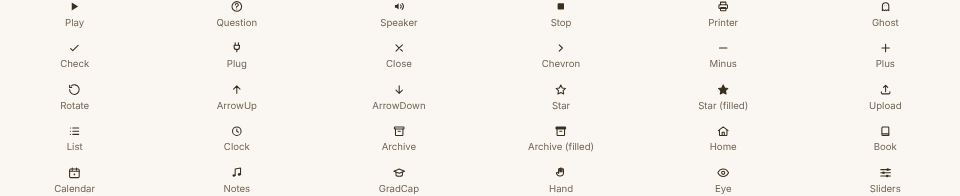
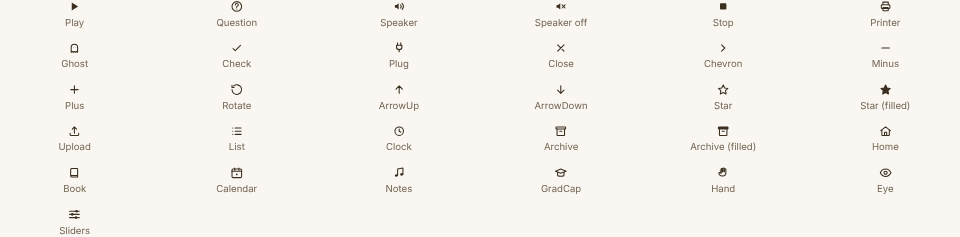
feat(sound): a piano that makes its own sound need not be doubled
Playing a digital or acoustic piano over MIDI, every note sounded twice: once
from the instrument and once from Plinky a few milliseconds behind. It is also
why a stuck note was audible at all — the voice that hung was Plinky's copy, not
the string.

"My piano makes its own sound" quiets the notes the player plays, and only
those. Listen, the metronome, the duet's other hand and every demonstration go
through strike rather than press, so they are untouched by construction. The
on-screen and computer keyboards keep their voice too — they have none of their
own, and silencing them would leave the player hearing nothing.

The switch sits in Settings and above the keys in full screen, where it stays
reachable with the keys folded away: folding them away is what somebody with a
real piano in front of them does, which is exactly who it is for. Off by
default, because most keyboards a beginner plugs in are silent controllers.

The funnel now maps a held pitch to what is holding it rather than recording
only that it is held, so a chord rolled across two inputs is judged per note.
isInstrumentInput is a second function beside isPreciseInput rather than a
second use of it: one asks how tightly to time a run, the other whether to make
a sound, and a silent MIDI controller would move one without the other.

Stored per device, and named as such in BACKEND.md's do-not-sync list — syncing
it would push silence onto a device with no instrument attached.

diff --git a/app/hooks/useSynth.test.tsx b/app/hooks/useSynth.test.tsx
@@ -5,6 +5,7 @@
 import { renderHook } from "@testing-library/react";
 import type { ReactNode } from "react";
 import { describe, expect, it } from "vitest";
+import { KEYBOARD_DEVICE, ON_SCREEN_DEVICE } from "../../core/midi";
 import type { Prefs } from "../../core/prefs";
 import { ROOM_WET } from "../../core/room";
 import { fakeAudioEngine } from "../adapters/fakeAudioEngine";
@@ -147,5 +148,64 @@ describe("decoration when audio is asleep", () => {
         const { audio, playNote } = harness();
         playNote(60, { decorative: true });
         expect(audio.strikes).toHaveLength(1);
+    });
+});
+
+describe("when the player's own instrument makes the sound", () => {
+    // Reported from a real piano over USB MIDI: every note was being played twice, once by
+    // the piano and once by Plinky a few milliseconds behind. It is also why a stuck note
+    // was audible at all — the voice that hung was Plinky's copy, not the piano's string.
+    const MIDI = "Yamaha P-125";
+
+    it("leaves a note from the instrument to the instrument", () => {
+        const { audio, synth } = harness({ instrumentSounds: true });
+
+        synth.pressNote(60, { velocity: 100, device: MIDI });
+
+        expect(audio.voices).toEqual([]);
+    });
+
+    it("still answers the on-screen and computer keyboards, which have no voice", () => {
+        // The setting is about the instrument in the room. A drawn key and a typed key
+        // make no sound of their own, so silencing them would leave the player with
+        // nothing at all.
+        const { audio, synth } = harness({ instrumentSounds: true });
+
+        synth.pressNote(60, { velocity: 100, device: ON_SCREEN_DEVICE });
+        synth.pressNote(62, { velocity: 100, device: KEYBOARD_DEVICE });
+        synth.pressNote(64, { velocity: 100 });
+
+        expect(audio.voices.map((one) => one.note)).toEqual([60, 62, 64]);
+    });
+
+    it("still plays everything Plinky plays by itself", () => {
+        // Listen, the metronome, the duet's other hand and every demonstration go through
+        // strike rather than press, and none of them is the player's own instrument.
+        const { audio, synth } = harness({ instrumentSounds: true });
+
+        synth.playNote(60);
+
+        expect(audio.strikes).toHaveLength(1);
+    });
+
+    it("answers the instrument when the setting is off", () => {
+        const { audio, synth } = harness({ instrumentSounds: false });
+
+        synth.pressNote(60, { velocity: 100, device: MIDI });
+
+        expect(audio.voices).toHaveLength(1);
+    });
+
+    it("still ends a voice and still tracks the pedal", () => {
+        // Release and pedal must reach the engine regardless: a session that opened no
+        // voice has nothing to end, but the pedal state has to stay true either way.
+        const { audio, synth } = harness({ instrumentSounds: true });
+
+        synth.pressNote(60, { velocity: 100, device: MIDI });
+        synth.releaseNote(60);
+        synth.setPedal("sustain", true);
+
+        expect(audio.voices).toEqual([{ kind: "release", note: 60, holdScale: 1 }]);
+        expect(audio.pedals).toContainEqual({ pedal: "sustain", down: true });
     });
 });

diff --git a/app/components/features/keyboardQuickControls.tsx b/app/components/features/keyboardQuickControls.tsx
@@ -9,11 +9,12 @@ import {
     type NoteLabels,
 } from "../../../core/prefs";
 import { m } from "../../paraglide/messages.js";
-import { KeysIcon } from "../ui/icons";
+import { KeysIcon, SpeakerOffIcon, SpeakerIcon } from "../ui/icons";
 import { ToggleIconButton } from "../ui/toggleIconButton";
 
 // The keyboard's own quick controls, sitting right above the keys in full
-// screen: fold the keys away, cycle the note names, cycle the next-note hint.
+// screen: fold the keys away, cycle the note names, cycle the next-note hint,
+// and hand the sound back to a piano that makes its own.
 // Each is a shortcut onto the same preference the tools drawer and Settings
 // edit with full captions — one source of truth, two doors — so a change here
 // is a change everywhere.
@@ -40,6 +41,8 @@ export function KeyboardQuickControls({
     onNoteLabels,
     noteHints,
     onNoteHints,
+    instrumentSounds,
+    onInstrumentSounds,
     floating = false,
 }: {
     // Whether the keys are folded away; the cluster stays visible as the way back.
@@ -52,6 +55,10 @@ export function KeyboardQuickControls({
     // omits the pair and the cycle button stays off the bar.
     noteHints?: NoteHints;
     onNoteHints?: (value: NoteHints) => void;
+    // Your instrument is sounding your notes already, so Plinky stays out of the way.
+    // Optional, like the hint pair: a surface with no instrument in play omits it.
+    instrumentSounds?: boolean;
+    onInstrumentSounds?: (value: boolean) => void;
     // Pin the cluster to its nearest positioned ancestor's bottom-right corner —
     // the score box — instead of taking a row of its own. Out of the flow, hiding
     // the keys frees their whole strip for the score.
@@ -96,6 +103,18 @@ export function KeyboardQuickControls({
                         </button>
                     )}
                 </>
+            )}
+            {/* Outside the fold, unlike the two cycles: folding the keys away is what a
+                player with a real piano in front of them does, which is exactly who this
+                switch is for. */}
+            {instrumentSounds !== undefined && onInstrumentSounds !== undefined && (
+                <ToggleIconButton
+                    pressed={instrumentSounds}
+                    label={m.settings_instrument_sounds()}
+                    onClick={() => onInstrumentSounds(!instrumentSounds)}
+                >
+                    {instrumentSounds ? <SpeakerOffIcon /> : <SpeakerIcon />}
+                </ToggleIconButton>
             )}
             <ToggleIconButton
                 pressed={hidden}

diff --git a/app/hooks/useSynth.ts b/app/hooks/useSynth.ts
@@ -3,6 +3,7 @@
 
 import { useCallback, useMemo } from "react";
 import { noteGain } from "../../core/loudness";
+import { isInstrumentInput } from "../../core/midi";
 import { wetFor } from "../../core/room";
 import type { PedalKind } from "../../core/pedals";
 import { useAudioEngine, usePrefsStore } from "../contexts/services";
@@ -33,7 +34,9 @@ export type UseSynthResult = {
     // A live voice for a held key: it rings until releaseNote (or the pedal lifts), so the
     // sound follows the player's own key hold. A quick release sounds staccato, a long hold
     // sustains — the articulation the player actually gave.
-    pressNote: (note: number, options?: { velocity?: number }) => void;
+    // `device` names what pressed the key, so a note an instrument is already sounding
+    // is not sounded twice. Omitted where the caller is not an instrument path.
+    pressNote: (note: number, options?: { velocity?: number; device?: string }) => void;
     // holdScale (default 1) lets an imprecise input's short tap ring on; see the engine's
     // release. A real MIDI key leaves it at 1.
     releaseNote: (note: number, holdScale?: number) => void;
@@ -98,7 +101,18 @@ export function useSynth(): UseSynthResult {
     );
 
     const pressNote = useCallback(
-        (note: number, options: { velocity?: number } = {}) => {
+        (note: number, options: { velocity?: number; device?: string } = {}) => {
+            // The player's own instrument is making this sound already, so Plinky does not
+            // make it again. Only for a note from a real instrument: a drawn key and a
+            // computer key have no voice of their own and would go silent. A caller that
+            // names no device is not an instrument path and always sounds.
+            if (
+                prefsStore.load().instrumentSounds &&
+                options.device !== undefined &&
+                isInstrumentInput(options.device)
+            ) {
+                return;
+            }
             const gain = gainFor(options.velocity ?? 90);
             if (gain === null) {
                 return;
@@ -106,7 +120,7 @@ export function useSynth(): UseSynthResult {
             audio.resume();
             audio.press(note, gain, options.velocity ?? 90);
         },
-        [gainFor, audio],
+        [gainFor, audio, prefsStore],
     );
 
     // Release and pedal always reach the engine — a muted session opened no voice, so they

diff --git a/app/hooks/useNoteFunnel.ts b/app/hooks/useNoteFunnel.ts
@@ -51,13 +51,19 @@ export type NoteFunnel = {
     // while an earlier pitch is already up, and pressing a guide voice for that pitch
     // would open one with no key-up left to release it.
     isHeld: (pitch: number) => boolean;
+    // What pressed a key that is still down, or null when nothing is. The play surface
+    // needs it to decide whether to voice the note: a note from an instrument that makes
+    // its own sound must not be answered with a second one.
+    deviceOf: (pitch: number) => string | null;
     // Handed to the MIDI context. Returned rather than subscribed here so the decisions
     // above can be exercised directly, without a provider or a device.
     listener: Required<NoteListener>;
 };
 
 export function useNoteFunnel(options: NoteFunnelOptions): NoteFunnel {
-    const held = useRef(new Set<number>());
+    // Note to the device holding it: a set would answer whether a key is down but not
+    // what is holding it, and both questions are asked of the same moment.
+    const held = useRef(new Map<number, string>());
     const [holding, setHolding] = useState(false);
     const latest = useRef(options);
     latest.current = options;
@@ -77,7 +83,7 @@ export function useNoteFunnel(options: NoteFunnelOptions): NoteFunnel {
                 }
                 // Only keyed input, which releases cleanly, defers the exit.
                 if (event.device !== MIC_DEVICE) {
-                    held.current.add(event.note);
+                    held.current.set(event.note, event.device);
                     sync();
                 }
                 o.registerNote(event.note, event.timestamp, event.velocity);
@@ -110,6 +116,7 @@ export function useNoteFunnel(options: NoteFunnelOptions): NoteFunnel {
     return {
         holding,
         isHeld: (pitch) => held.current.has(pitch),
+        deviceOf: (pitch) => held.current.get(pitch) ?? null,
         listener,
     };
 }

diff --git a/core/midi.ts b/core/midi.ts
@@ -119,13 +119,31 @@ export const ON_SCREEN_DEVICE = "On-screen keyboard";
 export const MIC_DEVICE = "Microphone";
 export const KEYBOARD_VELOCITY = 80;
 
+// The three stand-ins for an instrument: keys drawn on a screen, the computer's own
+// keyboard, and a microphone listening to a room. Any other device name is a MIDI
+// instrument somebody has plugged in and is actually playing.
+const STAND_INS: readonly string[] = [ON_SCREEN_DEVICE, KEYBOARD_DEVICE, MIC_DEVICE];
+
 // Whether an input source carries true velocity and rhythm. The on-screen and
 // computer-keyboard fallbacks send a fixed velocity and can't tap a precise beat,
 // and microphone pitch detection adds its own latency and wobble on top — so runs
 // played on any of them are timed with widened windows; a real MIDI instrument
 // (any other device name) is held to the tight ones.
 export function isPreciseInput(device: string): boolean {
-    return device !== ON_SCREEN_DEVICE && device !== KEYBOARD_DEVICE && device !== MIC_DEVICE;
+    return !STAND_INS.includes(device);
+}
+
+// Whether the note came from an instrument the player is touching, rather than from a
+// stand-in for one. It decides whether Plinky voices the note itself: a real piano or a
+// digital one may already be making the sound, while a drawn key and a computer key make
+// none and would be silent if Plinky did not answer them.
+//
+// The same set as isPreciseInput today, and deliberately a second function rather than a
+// second use of the first: one asks how tightly to time a run and the other asks whether
+// to make a sound, and a silent MIDI controller — precise, and needing Plinky's voice —
+// would move one of them without the other.
+export function isInstrumentInput(device: string): boolean {
+    return !STAND_INS.includes(device);
 }
 
 // Whether an input's key presses are delivered only while the window holds focus.

diff --git a/core/prefs.ts b/core/prefs.ts
@@ -62,6 +62,17 @@ export type Prefs = {
     colorNotes: boolean;
     noteHints: NoteHints;
     noteLabels: NoteLabels;
+    // Your own instrument makes the sound, so Plinky does not play your notes a second
+    // time. A digital piano with speakers, or an acoustic one with MIDI fitted, is already
+    // sounding every key you press — answering it adds a second voice a few milliseconds
+    // behind your own. Off by default, because most keyboards a beginner plugs in are
+    // silent controllers that would leave them hearing nothing.
+    //
+    // It silences only the notes YOU play, and only from a real instrument. Listen, the
+    // metronome, the ear trainer, the duet's other hand and every demonstration still
+    // sound, and so do the on-screen and computer keyboards, which have no voice of their
+    // own. Stored per device — the piano is in this room.
+    instrumentSounds: boolean;
     // Echo what Plinky plays to a connected instrument, lighting its keys.
     midiEcho: boolean;
     // Light the keys you are about to play on an instrument that illuminates them —
@@ -230,6 +241,7 @@ function defaults(): Prefs {
         colorNotes: true,
         noteHints: "always",
         noteLabels: "all",
+        instrumentSounds: false,
         midiEcho: false,
         keyLights: false,
         lightProfile: "casio",
@@ -321,6 +333,7 @@ export function parsePrefs(raw: string | null): Prefs {
         const parsed = JSON.parse(raw ?? "{}");
         return {
             sound: bool(parsed.sound, base.sound),
+            instrumentSounds: bool(parsed.instrumentSounds, base.instrumentSounds),
             midiEcho: bool(parsed.midiEcho, base.midiEcho),
             keyLights: bool(parsed.keyLights, base.keyLights),
             lightProfile: oneOf(parsed.lightProfile, LIGHT_PROFILE_IDS, base.lightProfile),

diff --git a/app/components/features/keyboardQuickControls.test.tsx b/app/components/features/keyboardQuickControls.test.tsx
@@ -4,6 +4,8 @@
 
 import { cleanup, fireEvent, render, screen } from "@testing-library/react";
 import { afterEach, describe, expect, it, vi } from "vitest";
+import { m } from "../../paraglide/messages.js";
+import { pressed } from "../../testing/controls";
 import { KeyboardQuickControls } from "./keyboardQuickControls";
 
 afterEach(cleanup);
@@ -54,6 +56,20 @@ describe("KeyboardQuickControls", () => {
             screen.getByRole("button", { name: /Show the next note.*|.*next note.*/i }),
         );
         expect(onNoteHints).toHaveBeenLastCalledWith("always");
+    });
+
+    it("hands the sound to an instrument that makes its own", () => {
+        const onInstrumentSounds = vi.fn();
+        renderControls({ instrumentSounds: false, onInstrumentSounds });
+        fireEvent.click(screen.getByRole("button", { name: m.settings_instrument_sounds() }));
+        expect(onInstrumentSounds).toHaveBeenCalledWith(true);
+    });
+
+    it("keeps the sound switch reachable with the keys folded away", () => {
+        // Folding the keys away is what somebody playing a real piano does, and they are
+        // exactly the player this switch is for — so it outlives the cycles.
+        renderControls({ hidden: true, instrumentSounds: true, onInstrumentSounds: noop });
+        expect(pressed(m.settings_instrument_sounds)).toBe(true);
     });
 
     it("folds down to just the way back when the keys are hidden", () => {

diff --git a/core/midi.test.ts b/core/midi.test.ts
@@ -7,6 +7,7 @@ import {
     holdScaleFor,
     IMPRECISE_HOLD_SCALE,
     isFocusGatedInput,
+    isInstrumentInput,
     isPreciseInput,
     KEYBOARD_DEVICE,
     keyToNote,
@@ -229,5 +230,16 @@ describe("spokenPitch", () => {
     it("numbers the octaves the way a piano is labelled, middle C in the fourth", () => {
         expect(spokenPitch(21)).toBe("A 0"); // the lowest key of an 88-key piano
         expect(spokenPitch(108)).toBe("C 8"); // and the highest
+    });
+});
+
+describe("isInstrumentInput", () => {
+    it("is true only for a device somebody is actually playing", () => {
+        // It decides whether Plinky voices the note. A real instrument may be sounding it
+        // already; a drawn key, a typed key and a microphone make no sound of their own.
+        expect(isInstrumentInput("Yamaha P-125")).toBe(true);
+        expect(isInstrumentInput(ON_SCREEN_DEVICE)).toBe(false);
+        expect(isInstrumentInput(KEYBOARD_DEVICE)).toBe(false);
+        expect(isInstrumentInput(MIC_DEVICE)).toBe(false);
     });
 });

diff --git a/app/components/features/playSession.tsx b/app/components/features/playSession.tsx
@@ -606,8 +606,12 @@ function usePlaySessionValue({
                 // pitch's key is already up. Pressing a voice for that pitch would open one
                 // with no key-up left to release it — it would ring on forever.
                 for (const pitch of info.pitches) {
-                    if (funnel.isHeld(pitch)) {
-                        synth.pressNote(pitch, { velocity: info.velocity });
+                    const device = funnel.deviceOf(pitch);
+                    if (device !== null) {
+                        // The device that pressed the key, not the one that pressed the
+                        // last key: a chord can be rolled across two inputs, and only the
+                        // instrument's own notes are the ones it is already sounding.
+                        synth.pressNote(pitch, { velocity: info.velocity, device });
                     }
                 }
             }

diff --git a/app/components/features/keyboardQuickControls.stories.tsx b/app/components/features/keyboardQuickControls.stories.tsx
@@ -38,3 +38,14 @@ export const Bare: Story = { args: { noteLabels: "off", noteHints: "never" } };
 // A free-play surface has no next note to hint, so it omits the pair and the
 // cycle button stays off the bar altogether.
 export const NoHints: Story = { args: { noteHints: undefined, onNoteHints: undefined } };
+
+// A piano that makes its own sound, so Plinky stays out of the way. The glyph is the
+// crossed-out speaker while it is on, and the plain one while Plinky is still answering.
+export const OwnInstrument: Story = {
+    args: { instrumentSounds: true, onInstrumentSounds: () => {} },
+};
+
+// Off, and offered: the same button before it is pressed.
+export const OwnInstrumentOff: Story = {
+    args: { instrumentSounds: false, onInstrumentSounds: () => {} },
+};

diff --git a/app/components/ui/icons.tsx b/app/components/ui/icons.tsx
@@ -58,6 +58,19 @@ export function SpeakerIcon({ className }: IconProps) {
     );
 }
 
+// The same cone with the waves crossed out. A diagonal slash is the more usual mute
+// glyph, but laid over a filled cone at this size it reads as a smudge; putting the cross
+// where the waves were says the same thing with the strokes the set already uses.
+export function SpeakerOffIcon({ className }: IconProps) {
+    return (
+        <Icon className={className}>
+            <path d="M4 9.5h3l4-3.5v12l-4-3.5H4z" fill="currentColor" stroke="none" />
+            <path d="M14.5 9 20 15" />
+            <path d="M20 9 14.5 15" />
+        </Icon>
+    );
+}
+
 // A filled square — the universal "stop".
 export function StopIcon({ className }: IconProps) {
     return (

diff --git a/app/routes/settings.tsx b/app/routes/settings.tsx
@@ -111,6 +111,12 @@ export default function Settings() {
                         <MidiConnect />
                     </FeatureBoundary>
                     <SwitchField
+                        label={m.settings_instrument_sounds()}
+                        checked={prefs.instrumentSounds}
+                        onChange={(instrumentSounds) => update({ instrumentSounds })}
+                        help={m.settings_instrument_sounds_help()}
+                    />
+                    <SwitchField
                         label={m.settings_midi_echo()}
                         checked={prefs.midiEcho}
                         onChange={(midiEcho) => update({ midiEcho })}
